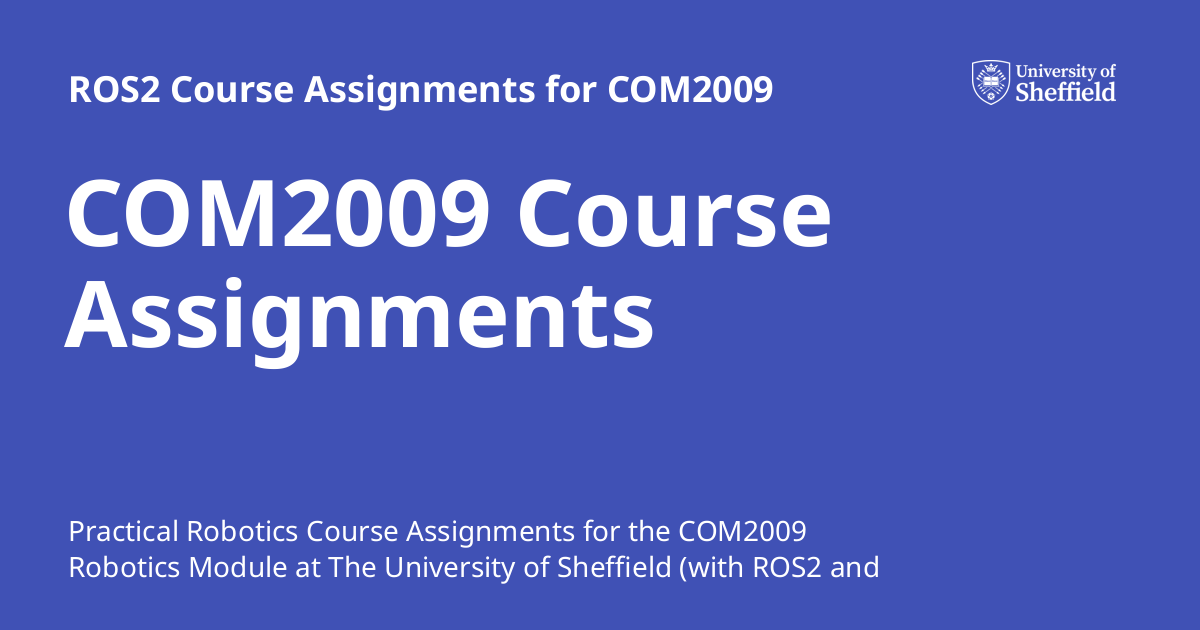
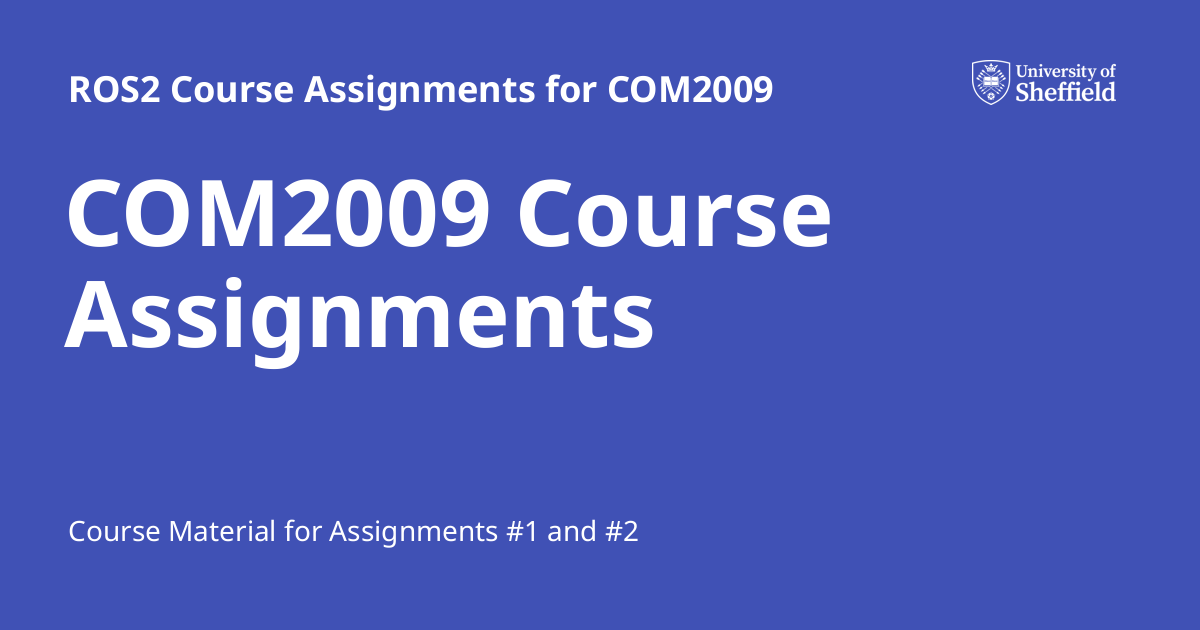
Deployed 38d9083 with MkDocs version: 1.6.1

Changed region(s): [[0.0617, 0.8143, 0.74, 0.9349]]

diff --git a/course/index.html b/course/index.html
@@ -6,7 +6,7 @@
       <meta charset="utf-8">
       <meta name="viewport" content="width=device-width,initial-scale=1">
       
-        <meta name="description" content="Practical Robotics Course Assignments for the COM2009 Robotics Module at The University of Sheffield (with ROS2 and the TurtleBot3 Waffle).">
+        <meta name="description" content="Course Material for Assignments #1 and #2">
       
       
       
@@ -65,7 +65,7 @@
       
         <meta  property="og:title"  content="COM2009 Course Assignments - ROS2 Course Assignments for COM2009" >
       
-        <meta  property="og:description"  content="Practical Robotics Course Assignments for the COM2009 Robotics Module at The University of Sheffield (with ROS2 and the TurtleBot3 Waffle)." >
+        <meta  property="og:description"  content="Course Material for Assignments #1 and #2" >
       
         <meta  property="og:image"  content="https://tom-howard.github.io/com2009/assets/images/social/course/README.png" >
       
@@ -81,7 +81,7 @@
       
         <meta  name="twitter:title"  content="COM2009 Course Assignments - ROS2 Course Assignments for COM2009" >
       
-        <meta  name="twitter:description"  content="Practical Robotics Course Assignments for the COM2009 Robotics Module at The University of Sheffield (with ROS2 and the TurtleBot3 Waffle)." >
+        <meta  name="twitter:description"  content="Course Material for Assignments #1 and #2" >
       
         <meta  name="twitter:image"  content="https://tom-howard.github.io/com2009/assets/images/social/course/README.png" >
       
@@ -1816,7 +1816,7 @@
     <span class="md-icon" title="Last update">
       <svg xmlns="http://www.w3.org/2000/svg" viewBox="0 0 24 24"><path d="M21 13.1c-.1 0-.3.1-.4.2l-1 1 2.1 2.1 1-1c.2-.2.2-.6 0-.8l-1.3-1.3c-.1-.1-.2-.2-.4-.2m-1.9 1.8-6.1 6V23h2.1l6.1-6.1zM12.5 7v5.2l4 2.4-1 1L11 13V7zM11 21.9c-5.1-.5-9-4.8-9-9.9C2 6.5 6.5 2 12 2c5.3 0 9.6 4.1 10 9.3-.3-.1-.6-.2-1-.2s-.7.1-1 .2C19.6 7.2 16.2 4 12 4c-4.4 0-8 3.6-8 8 0 4.1 3.1 7.5 7.1 7.9l-.1.2z"/></svg>
     </span>
-    <span class="git-revision-date-localized-plugin git-revision-date-localized-plugin-timeago"><span class="timeago" datetime="2024-08-07T15:33:08+00:00" locale="en"></span></span><span class="git-revision-date-localized-plugin git-revision-date-localized-plugin-iso_date">2024-08-07</span>
+    <span class="git-revision-date-localized-plugin git-revision-date-localized-plugin-timeago"><span class="timeago" datetime="2025-02-03T10:11:46+00:00" locale="en"></span></span><span class="git-revision-date-localized-plugin git-revision-date-localized-plugin-iso_date">2025-02-03</span>
   </span>
 
     
